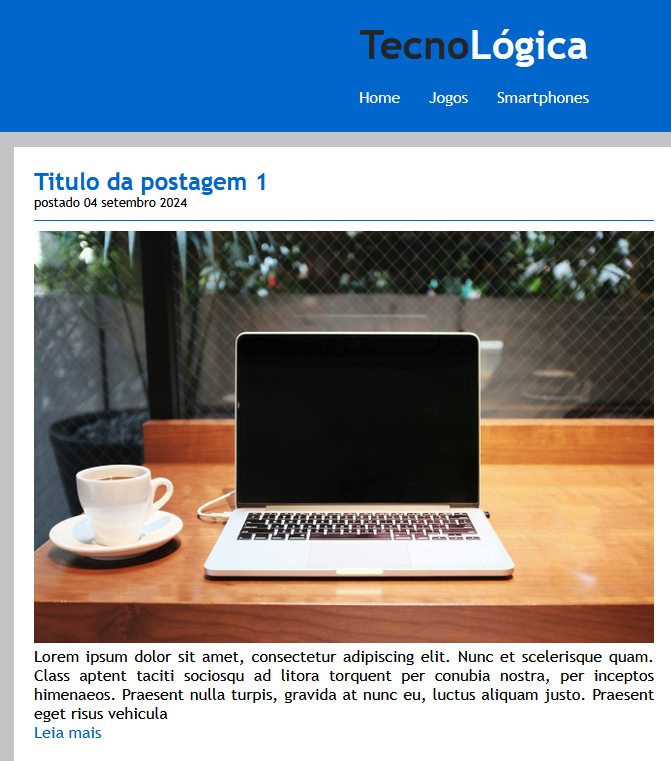
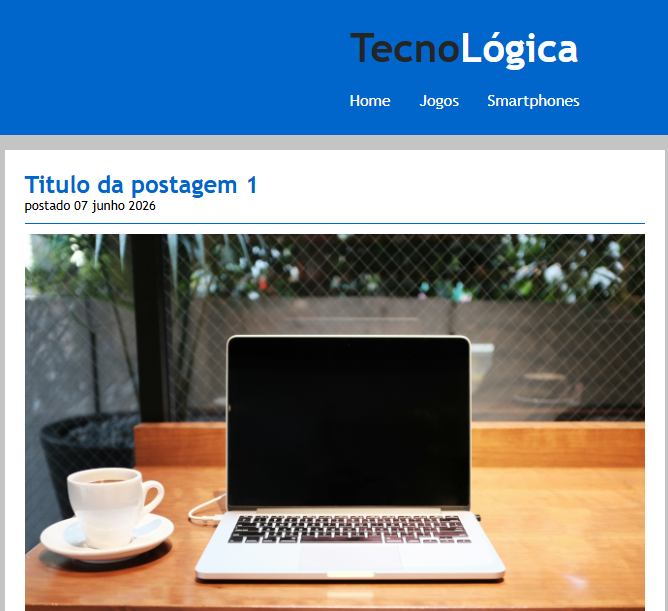
atualização 14jun26

diff --git a/style.css b/style.css
@@ -2,20 +2,25 @@ body{
     margin: 0;
     font-family: Arial, Helvetica, sans-serif;
     color: #1f2661;
+    
    
 }
 
 /*define container como Grid*/
 .container{
     display:grid;
+    
+    
 }
+
+
 /*Grid do cabeçalho inicia na coluna 1 e termina na coluna 12, cor de fundo blue*/
 header{
     grid-column-start:1;
     grid-column-end:12;
     background-color: #826006;
     font-size: 20px; 
-    font-family: Arial, Helvetica, sans-serif;
+    font-family: Georgia, 'Times New Roman', Times, serif;
     color: white;
     text-align: center;
 } 
@@ -36,7 +41,7 @@ header{
     grid-column-end:3; 
     padding-left: 25px;
     padding-right: 15px;
-    padding-top:60px;
+    padding-top:50px;
     padding-bottom: 30px;
     
     
@@ -45,11 +50,11 @@ header{
 .principal{
     grid-column-start:4;
     grid-column-end:12;
-    padding-left: 50px; 
-    padding-right:100px;
+    padding-left: 100px; 
+    padding-right:250px;
     padding-top: 35px;
     text-align: justify;
-    
+  
 }
 .card{
     display: flex;
@@ -61,7 +66,7 @@ footer{
     grid-column-end:12 ;
     background-color: #826006;;
     color: white;
-    font-size: 7px;
+    font-size: 10px;
     text-align: center;
     font-family: Arial, Helvetica, sans-serif;
 }
@@ -151,3 +156,9 @@ a:hover{
     }
 }
 
+@media screen and (min-width:768px){
+    footer,.container{
+        margin-bottom: 0 !important;
+        padding-bottom: 10px !important;
+    }
+}

diff --git a/index.html b/index.html
@@ -30,22 +30,27 @@
         <img class="minha_foto" src="images/fotoPatricia.jpg" alt="Minha foto" >
     </aside>
     <section class="principal">
-        <h1>Sobre mim</h1>
+        <h1>Seja bem-vindo ao meu Portfólio!</h1><br>
+        <h2>Sobre mim</h2>
         <p>Sou servidora pública há 26 anos, atuando na Secretaria Municipal da Saúde do município de Santo Antônio da Patrulha/RS, na área de Sistemas de Informação. Ao longo da minha trajetória profissional, desenvolvi experiência na gestão, organização e análise de informações, contribuindo para a melhoria dos processos e para a qualidade dos serviços prestados à população.</p>
 
         <p>Tenho 47 anos e acredito que o aprendizado contínuo é fundamental para o crescimento pessoal e profissional. Por isso, busco constantemente ampliar meus conhecimentos, especialmente na área de informática e tecnologia, que desperta grande interesse e motivação em minha carreira.</p>
 
         <p>Sou uma profissional comprometida, responsável e dedicada, com facilidade para aprender novas ferramentas e adaptar-me às mudanças. Valorizo o trabalho em equipe, a troca de experiências e a busca por soluções que gerem resultados positivos.</p>
 
-        <p>Nas horas livres, gosto de ouvir música, estudar temas relacionados à informática e viajar, atividades que contribuem para ampliar minha visão de mundo, estimular a criatividade e renovar minhas energias para novos desafios.</p>
+        <p>Nas horas livres, gosto de ouvir música, estudar temas relacionados à informática e viajar para conhecer novas culturas e lugares, atividades que contribuem para ampliar minha visão de mundo, estimular a criatividade e renovar minhas energias para novos desafios.</p>
 
-        <p>Meu objetivo é continuar evoluindo profissionalmente, adquirindo novas competências e contribuindo com minha experiência, conhecimento e vontade de aprender para o desenvolvimento de projetos e iniciativas que façam a diferença.</p>
+        <p>Meu objetivo é continuar evoluindo profissionalmente, adquirindo novas competências e contribuindo com minha experiência, conhecimento e vontade de aprender para o desenvolvimento de projetos e iniciativas que façam a diferença. Busco também oportunidades para atuar e me desenvolver na área de Análise e Desenvolvimento de Sistemas, aplicando conhecimentos em tecnologia, resolução de problemas e melhoria de processos, além de ampliar continuamente minhas habilidades técnicas para contribuir com soluções inovadoras e eficientes.</p>
+
+        <p>Agradeço sua visita e convido você a conhecer um pouco mais da minha trajetória, experiênicias e projetos. </p>
+        <br>
+        <br>
 
     </section>
    </div>
 
    <footer class="container">
-    <h1>Desenvolvido por Patricia [email redacted]</h1>
+    <h2>Desenvolvido por Patricia Takagi- CST ADS Uninter 2026<br>[email redacted]</h2>
    </footer>
     
 

diff --git a/contato.html b/contato.html
@@ -31,6 +31,8 @@
     </aside>
     <section class="principal">
         <h1>Contato</h1>
+        <h4>Dúvidas, sugestões, comentários ou novos projetos?<br> Entre em contato.<br>
+        Preencha o formulário abaixo: </h4><br>
        <form id="formContato" action="" method="POST">
           <table>
             <tr>
@@ -43,7 +45,7 @@
             </tr>
              <tr>
                 <th><label for="msg">Digite sua mensagem:</label></th>
-                <td><textarea name="msg" id="mensagem" rows="15" cols="40"></textarea></td>
+                <td><textarea name="msg" id="mensagem" rows="25" cols="70"></textarea></td>
             </tr>
             <tr>
                 <td></td>
@@ -53,9 +55,10 @@
        </form>
     </section>
    </div>
+   <br><br>
 
-   <footer class="container">
-    <h1>Desenvolvido por Patricia [email redacted]</h1>
+  <footer class="container">
+    <h2>Desenvolvido por Patricia Takagi- CST ADS Uninter 2026<br>[email redacted]</h2>
    </footer>
     
 

diff --git a/formacao.html b/formacao.html
@@ -30,7 +30,8 @@
         <img class="formacao" src="images/formacao.jpg" alt="formacao" >
     </aside>
     <section class="principal">
-        <h1>Formação</h1>
+        <h1 style=text-align:left>Trajetória acadêmica e desenvolvimento profissional</h1>
+        <h2>Formação</h2>
         <p> Minha trajetória de formação é marcada pela busca constante por conhecimento e desenvolvimento profissional. Concluí o Ensino Médio na modalidade Magistério, adquirindo competências relacionadas à educação, comunicação e organização.</p>
 
         <p>Posteriormente, ampliei minha qualificação técnica com o curso Técnico em Informática pela Escola QI, onde desenvolvi conhecimentos em tecnologia, informática e suporte a sistemas. Também concluí o curso Técnico em Administração pelo Instituto Federal Sul-rio-grandense (IFSul), fortalecendo habilidades em gestão, planejamento, processos administrativos e trabalho em equipe.</p>
@@ -39,13 +40,15 @@
 
         <p>Além disso, possuo conhecimento básico de inglês, o que me permite    compreender termos técnicos, consultar documentações e acompanhar conteúdos da área de tecnologia.</p>
 
+        <p>Os conhecimentos adquiridos ao longo da minha trajetória acadêmica são aplicados diariamente em minhas atividades profissionais na Secretaria Municipal da Saúde, especialmente no trabalho com sistemas de informação. A formação técnica e superior tem contribuído para o desenvolvimento de competências relacionadas à análise de dados, utilização de sistemas informatizados, suporte aos processos administrativos e busca por soluções tecnológicas que auxiliem na gestão e na melhoria dos serviços prestados à população. Essa integração entre teoria e prática fortalece minha capacidade de adaptação, aprendizado contínuo e contribuição para a eficiência dos processos institucionais.</p>
+
         <p>Meu objetivo é continuar evoluindo profissionalmente, unindo os conhecimentos adquiridos nas áreas de educação, administração e tecnologia para contribuir de forma eficiente e inovadora nos desafios do mercado de trabalho.</p>
 
     </section>
    </div>
 
-   <footer class="container">
-    <h1>Desenvolvido por Patricia [email redacted]</h1>
+  <footer class="container">
+    <h2>Desenvolvido por Patricia Takagi- CST ADS Uninter 2026<br>[email redacted]</h2>
    </footer>
     
 

diff --git a/portfolio.html b/portfolio.html
@@ -31,12 +31,13 @@
     </aside>
     <section class="principal">
         <h1>Portfólio</h1>
+        <h3>Trabalhos desenvolvidos:</h3>
         <div class="card">
             <div class="img">
                 <img src="images/site tecnologica.png">
                 <div class="">
                    <h3>Site Tecnológica</h3>
-                   <p>Site desenvolvido na aula prática 2 do curso de ADS-Fundamentos da Programação Web</p>
+                   <p>Exercício (site) desenvolvido na aula prática 2 do curso de CST ADS Uninter-disciplina de Fundamentos da Programação Web</p>
 
                    <a href="https://patriciatakagi.github.io/sitetecnologica/" target="_blank" rel="noopener noreferrer">Clique para ver</a>
                 </div>
@@ -46,7 +47,7 @@
                 <img src="images/Calculadora.png">
                 <div class="">
                    <h3>Calculadora</h3>
-                   <p>Trabalho desenvolvido no curso de ADS-Fundamentos de Desenvolvimento de Softwares</p>
+                   <p>Trabalho desenvolvido no curso de CST ADS Uninter-disciplina de Fundamentos de Desenvolvimento de Softwares</p>
                    <p>Calculadora que realiza operações de somar, subtrair, multiplicar e dividir dois números informados pelo usuário</p>
 
                    <a href="https://patriciatakagi.github.io/trab-calculadora/" target="_blank" rel="noopener noreferrer">Clique para ver</a>
@@ -66,8 +67,8 @@
     </section>
    </div>
 
-   <footer class="container">
-    <h1>Desenvolvido por Patricia [email redacted]</h1>
+  <footer class="container">
+    <h2>Desenvolvido por Patricia Takagi- CST ADS Uninter 2026<br>[email redacted]</h2>
    </footer>
     
 